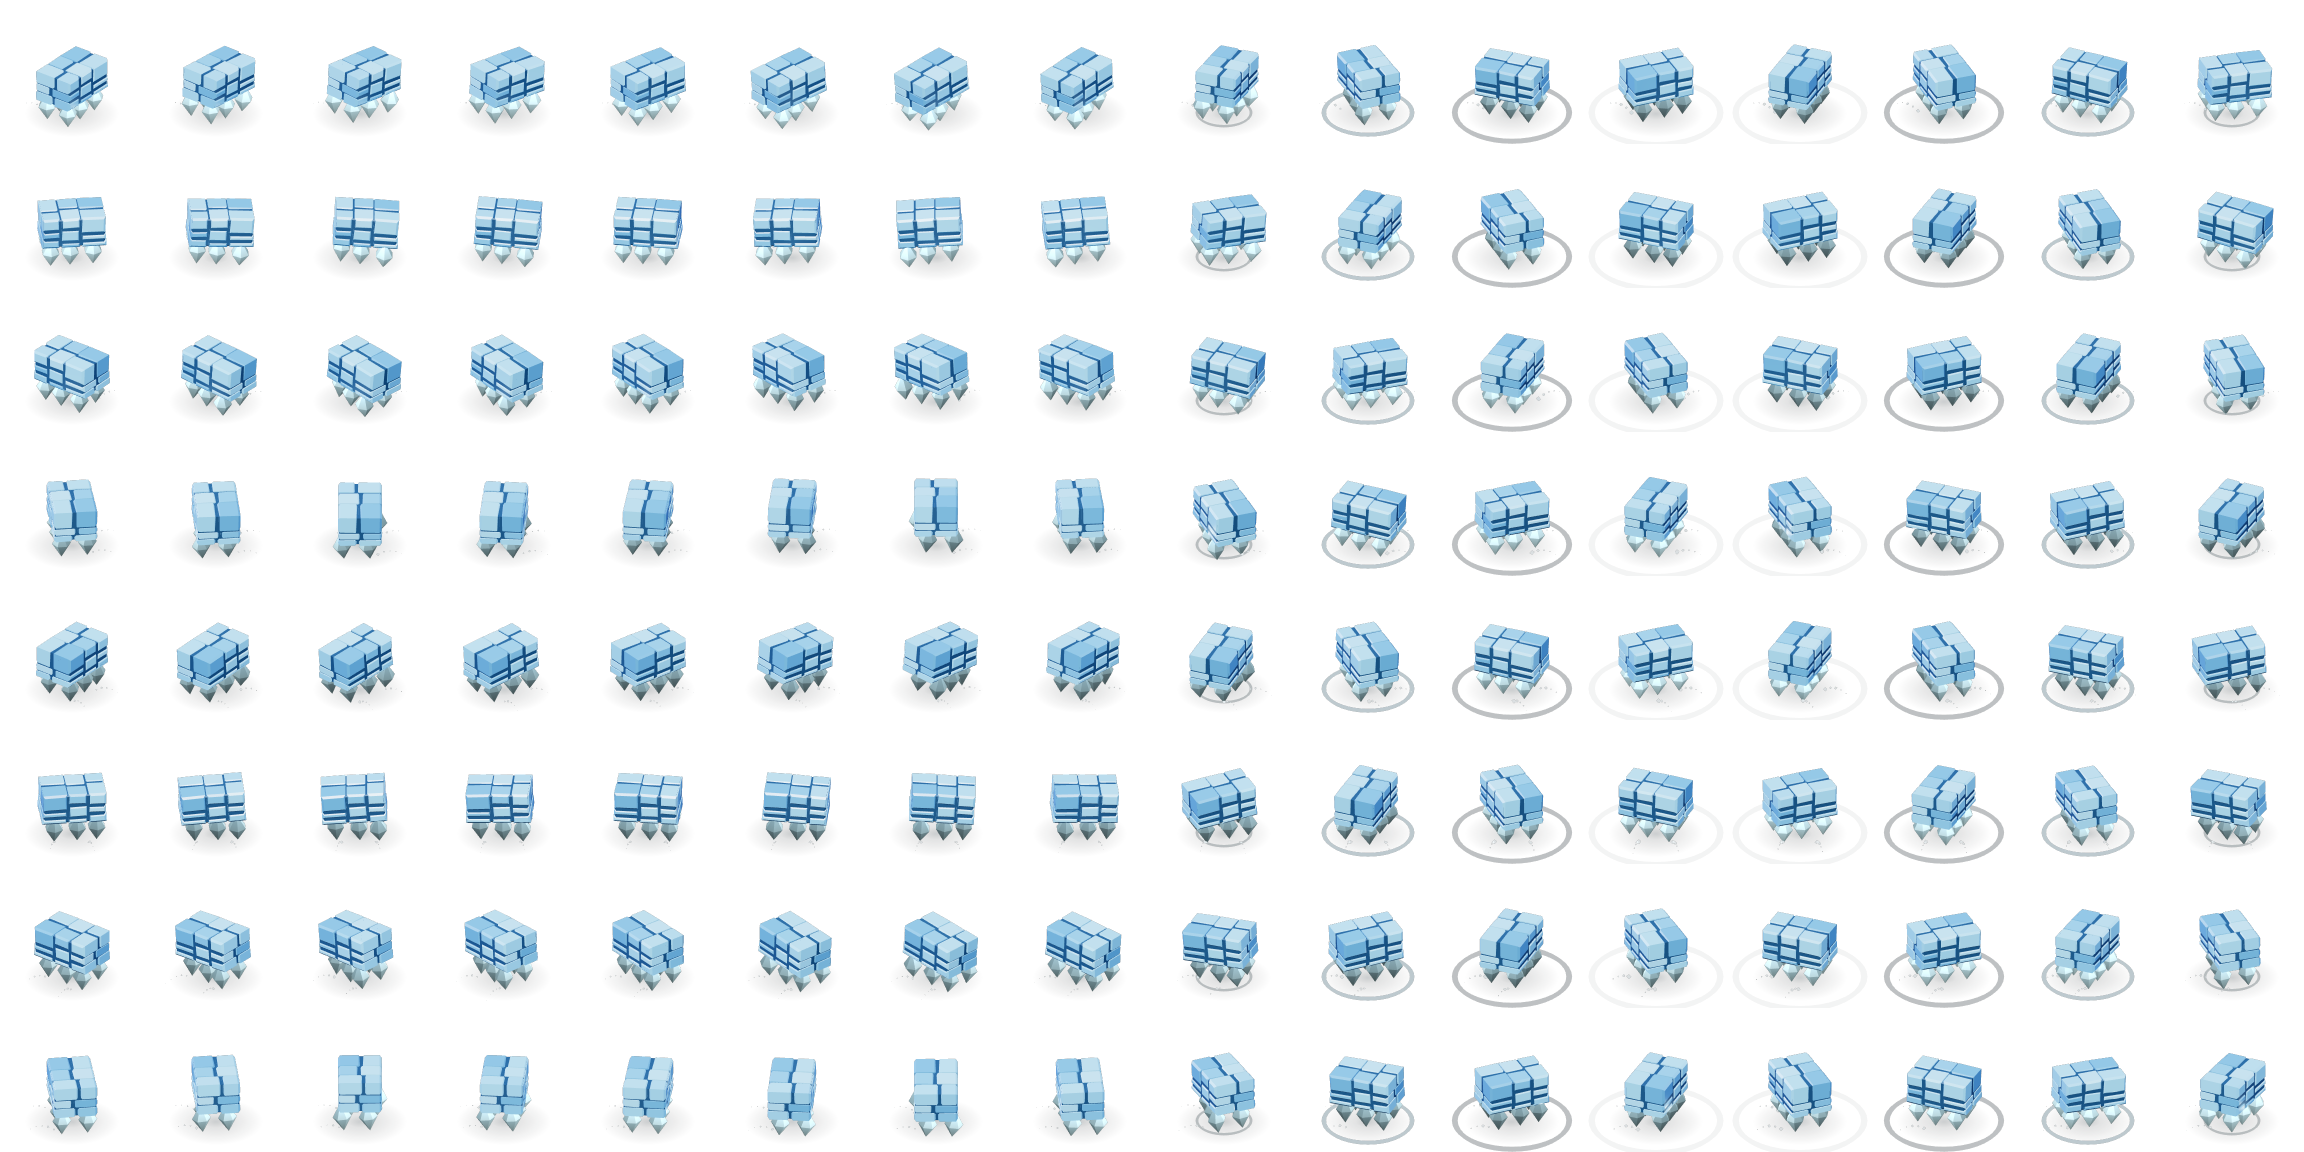
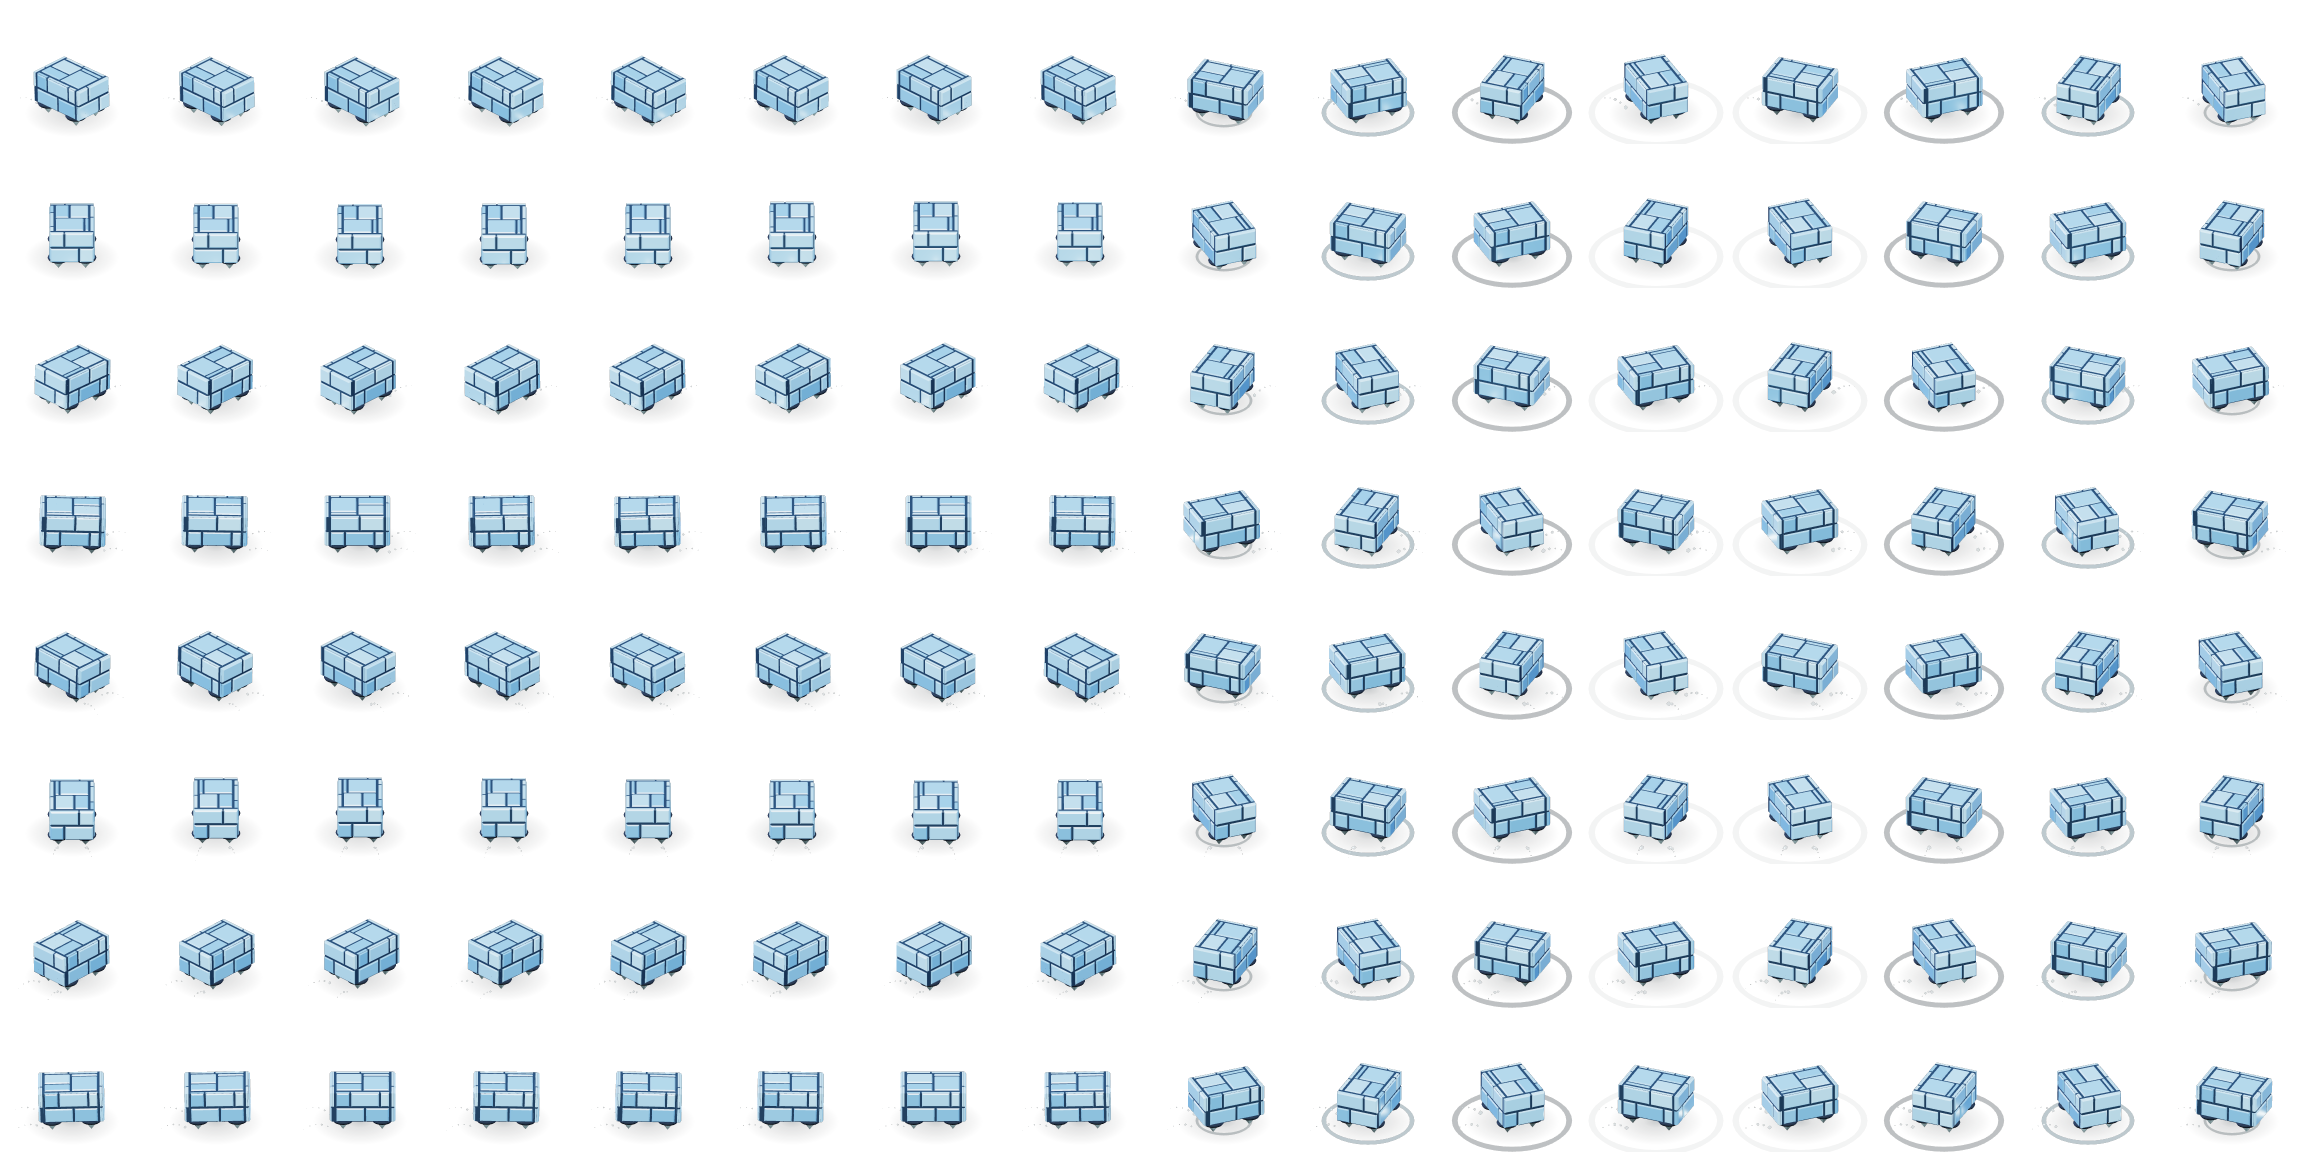
The Igloo Skater is the brick train cart now (No. 857, approved)
ASKED (reviewing it): "Only 4 legs and it should look like fitted bricks
on the body and the diamonds are nested under the body", "Bigger bricks 2
layers", "when it moves like a train cart, so that the smaller side is
front facing", then "Perfect".

- img/evo/igloo is baked from No. 857: a long box of big fitted ice bricks
  (two staggered courses on each wall and on the top, dark mortar) on
  four diamonds nested in sockets under it, narrow end first; it glides
  along its length with a slight rock, and spins in its action.
- The first design (No. 852) stays in the design file, baked by bake.js as
  igloo_old for comparison.
- Tests: evolution, landing page, boot.

Build 2026-10-28e.

Claude-Session: https://claude.ai/code/session_0115DZYYhipQqSk6LHvQcEfz

diff --git a/game.html b/game.html
@@ -1573,12 +1573,12 @@ function _showError(msg) {
 // Script files that failed to download. A missing file raises no error of its
 // own — only the "Can't find variable" from whatever needed it — so the load
 // failure is caught here, on its way down (capture phase).
-// THE BUILD. Every script URL below carries ?v=2026-10-28d, so a new deploy
+// THE BUILD. Every script URL below carries ?v=2026-10-28e, so a new deploy
 // fetches a matching set: REPORTED, an iPad ran the new js/indexart.js against
 // an old cached js/config.js ("Attempted to assign to readonly property").
 // Change this, the ?v= on every script tag and BUILD_VERSION in js/config.js
 // together (tests/boot.js checks they agree).
-window.__PAGE_BUILD = "2026-10-28d";
+window.__PAGE_BUILD = "2026-10-28e";
 window.__bootFailed = [];
 window.addEventListener("error", function (e) {
     var t = e && e.target;
@@ -1614,71 +1614,71 @@ if (!CanvasRenderingContext2D.prototype.roundRect) {
 </script>
 
 <!-- Game scripts — load order matters (globals first, logic last) -->
-<script src="js/config.js?v=2026-10-28d"></script>
-<script src="js/icons.js?v=2026-10-28d"></script>
-<script src="js/uikit.js?v=2026-10-28d"></script>
-<script src="js/traits.js?v=2026-10-28d"></script>
-<script src="js/elements.js?v=2026-10-28d"></script>
-<script src="js/combat.js?v=2026-10-28d"></script>
-<script src="js/species.js?v=2026-10-28d"></script>
-<script src="js/levels.js?v=2026-10-28d"></script>
-<script src="js/status.js?v=2026-10-28d"></script>
-<script src="js/helpers.js?v=2026-10-28d"></script>
-<script src="js/predator.js?v=2026-10-28d"></script>
-<script src="js/abilities.js?v=2026-10-28d"></script>
-<script src="js/commands.js?v=2026-10-28d"></script>
-<script src="js/npc.js?v=2026-10-28d"></script>
-<script src="js/draw.js?v=2026-10-28d"></script>
-<script src="js/beetle3d.js?v=2026-10-28d"></script>
-<script src="js/bugs3d.js?v=2026-10-28d"></script>
-<script src="js/settings.js?v=2026-10-28d"></script>
-<script src="js/alarm.js?v=2026-10-28d"></script>
-<script src="js/drops.js?v=2026-10-28d"></script>
-<script src="js/clone.js?v=2026-10-28d"></script>
-<script src="js/bonds.js?v=2026-10-28d"></script>
-<script src="js/evolution.js?v=2026-10-28d"></script>
-<script src="js/hdsprites.js?v=2026-10-28d"></script>
-<script src="js/firebombs.js?v=2026-10-28d"></script>
-<script src="js/moves.js?v=2026-10-28d"></script>
-<script src="js/hudgems.js?v=2026-10-28d"></script>
-<script src="js/commandcenter.js?v=2026-10-28d"></script>
-<script src="js/unitinfo.js?v=2026-10-28d"></script>
-<script src="js/infodex.js?v=2026-10-28d"></script>
-<script src="js/classes.js?v=2026-10-28d"></script>
-<script src="js/playergear.js?v=2026-10-28d"></script>
-<script src="js/inventory.js?v=2026-10-28d"></script>
-<script src="js/weapons.js?v=2026-10-28d"></script>
-<script src="js/mutator.js?v=2026-10-28d"></script>
-<script src="js/specimen.js?v=2026-10-28d"></script>
-<script src="js/serum.js?v=2026-10-28d"></script>
-<script src="js/technomancer.js?v=2026-10-28d"></script>
-<script src="js/stations.js?v=2026-10-28d"></script>
-<script src="js/facilityportals.js?v=2026-10-28d"></script>
-<script src="js/tutorial.js?v=2026-10-28d"></script>
-<script src="js/facilitymap.js?v=2026-10-28d"></script>
-<script src="js/facilitygrow.js?v=2026-10-28d"></script>
-<script src="js/facility.js?v=2026-10-28d"></script>
-<script src="js/attract.js?v=2026-10-28d"></script>
-<script src="js/facilitysave.js?v=2026-10-28d"></script>
-<script src="js/facilityplay.js?v=2026-10-28d"></script>
-<script src="js/facilitydecor.js?v=2026-10-28d"></script>
-<script src="js/propatlas.js?v=2026-10-28d"></script>
-<script src="js/propsprites.js?v=2026-10-28d"></script>
-<script src="js/facilitystyle.js?v=2026-10-28d"></script>
-<script src="js/facilitystyleall.js?v=2026-10-28d"></script>
-<script src="js/facilitynet.js?v=2026-10-28d"></script>
-<script src="js/facilityspawn.js?v=2026-10-28d"></script>
-<script src="js/followerspots.js?v=2026-10-28d"></script>
-<script src="js/party.js?v=2026-10-28d"></script>
-<script src="js/squadfly.js?v=2026-10-28d"></script>
-<script src="js/facilitytutorial.js?v=2026-10-28d"></script>
-<script src="js/gunfire.js?v=2026-10-28d"></script>
-<script src="js/targeting.js?v=2026-10-28d"></script>
-<script src="js/toolbox.js?v=2026-10-28d"></script>
-<script src="js/mixtool.js?v=2026-10-28d"></script>
-<script src="js/radialmenu.js?v=2026-10-28d"></script>
-<script src="js/input.js?v=2026-10-28d"></script>
-<script src="js/game.js?v=2026-10-28d"></script>
+<script src="js/config.js?v=2026-10-28e"></script>
+<script src="js/icons.js?v=2026-10-28e"></script>
+<script src="js/uikit.js?v=2026-10-28e"></script>
+<script src="js/traits.js?v=2026-10-28e"></script>
+<script src="js/elements.js?v=2026-10-28e"></script>
+<script src="js/combat.js?v=2026-10-28e"></script>
+<script src="js/species.js?v=2026-10-28e"></script>
+<script src="js/levels.js?v=2026-10-28e"></script>
+<script src="js/status.js?v=2026-10-28e"></script>
+<script src="js/helpers.js?v=2026-10-28e"></script>
+<script src="js/predator.js?v=2026-10-28e"></script>
+<script src="js/abilities.js?v=2026-10-28e"></script>
+<script src="js/commands.js?v=2026-10-28e"></script>
+<script src="js/npc.js?v=2026-10-28e"></script>
+<script src="js/draw.js?v=2026-10-28e"></script>
+<script src="js/beetle3d.js?v=2026-10-28e"></script>
+<script src="js/bugs3d.js?v=2026-10-28e"></script>
+<script src="js/settings.js?v=2026-10-28e"></script>
+<script src="js/alarm.js?v=2026-10-28e"></script>
+<script src="js/drops.js?v=2026-10-28e"></script>
+<script src="js/clone.js?v=2026-10-28e"></script>
+<script src="js/bonds.js?v=2026-10-28e"></script>
+<script src="js/evolution.js?v=2026-10-28e"></script>
+<script src="js/hdsprites.js?v=2026-10-28e"></script>
+<script src="js/firebombs.js?v=2026-10-28e"></script>
+<script src="js/moves.js?v=2026-10-28e"></script>
+<script src="js/hudgems.js?v=2026-10-28e"></script>
+<script src="js/commandcenter.js?v=2026-10-28e"></script>
+<script src="js/unitinfo.js?v=2026-10-28e"></script>
+<script src="js/infodex.js?v=2026-10-28e"></script>
+<script src="js/classes.js?v=2026-10-28e"></script>
+<script src="js/playergear.js?v=2026-10-28e"></script>
+<script src="js/inventory.js?v=2026-10-28e"></script>
+<script src="js/weapons.js?v=2026-10-28e"></script>
+<script src="js/mutator.js?v=2026-10-28e"></script>
+<script src="js/specimen.js?v=2026-10-28e"></script>
+<script src="js/serum.js?v=2026-10-28e"></script>
+<script src="js/technomancer.js?v=2026-10-28e"></script>
+<script src="js/stations.js?v=2026-10-28e"></script>
+<script src="js/facilityportals.js?v=2026-10-28e"></script>
+<script src="js/tutorial.js?v=2026-10-28e"></script>
+<script src="js/facilitymap.js?v=2026-10-28e"></script>
+<script src="js/facilitygrow.js?v=2026-10-28e"></script>
+<script src="js/facility.js?v=2026-10-28e"></script>
+<script src="js/attract.js?v=2026-10-28e"></script>
+<script src="js/facilitysave.js?v=2026-10-28e"></script>
+<script src="js/facilityplay.js?v=2026-10-28e"></script>
+<script src="js/facilitydecor.js?v=2026-10-28e"></script>
+<script src="js/propatlas.js?v=2026-10-28e"></script>
+<script src="js/propsprites.js?v=2026-10-28e"></script>
+<script src="js/facilitystyle.js?v=2026-10-28e"></script>
+<script src="js/facilitystyleall.js?v=2026-10-28e"></script>
+<script src="js/facilitynet.js?v=2026-10-28e"></script>
+<script src="js/facilityspawn.js?v=2026-10-28e"></script>
+<script src="js/followerspots.js?v=2026-10-28e"></script>
+<script src="js/party.js?v=2026-10-28e"></script>
+<script src="js/squadfly.js?v=2026-10-28e"></script>
+<script src="js/facilitytutorial.js?v=2026-10-28e"></script>
+<script src="js/gunfire.js?v=2026-10-28e"></script>
+<script src="js/targeting.js?v=2026-10-28e"></script>
+<script src="js/toolbox.js?v=2026-10-28e"></script>
+<script src="js/mixtool.js?v=2026-10-28e"></script>
+<script src="js/radialmenu.js?v=2026-10-28e"></script>
+<script src="js/input.js?v=2026-10-28e"></script>
+<script src="js/game.js?v=2026-10-28e"></script>
 <script>
 // ── BOOT CHECK ────────────────────────────────────────────
 // Every file above must have arrived and run before init.js starts the game.
@@ -1733,7 +1733,7 @@ if (!CanvasRenderingContext2D.prototype.roundRect) {
     document.body.appendChild(d);
 })();
 </script>
-<script src="js/init.js?v=2026-10-28d"></script>
+<script src="js/init.js?v=2026-10-28e"></script>
 
 </body>
 </html>

diff --git a/js/evolution.js b/js/evolution.js
@@ -207,10 +207,11 @@ const EVOLUTIONS = {
     // a yellow underglow, square wings and two launcher prongs, over a six-legged shuttle; its action frames lift the shell off. It glows, so the sheet carries its own light.
     hovershell:{ id: "hovershell", name: "HOVER SHELL", element: "electric", role: "camper", sheet: "img/evo/hovershell.png",
               cell: 144, anchor: [72, 114.2], core: [72, 93.1], noGlow: true, color: "#ffee33" },
-    // The ICE TECHNICIAN, design No. 852 (the user's pencil sketch: "a rectangular igloo looking dude that has diamonds for legs, who skates around"):
-    // a squat box of cut ice blocks on diamond legs. It glides, so the sheet carries its own light.
+    // The ICE TECHNICIAN, design No. 857 (the user's pencil sketch: "a rectangular igloo looking dude that has diamonds for legs, who skates around", then the review:
+    // "only 4 legs", "fitted bricks on the body", "the diamonds are nested under the body", "bigger bricks 2 layers", "moves like a train cart, so that the smaller side is
+    // front facing"): a long box of big fitted ice bricks, narrow end first, on four diamonds nested in sockets under it. It glides, so the sheet carries its own light.
     igloo:  { id: "igloo",  name: "IGLOO SKATER", element: "ice", role: "camper", sheet: "img/evo/igloo.png",
-              cell: 144, anchor: [72, 114.2], core: [72, 78.7], noGlow: true, color: "#9fe8ff" },
+              cell: 144, anchor: [72, 114.2], core: [72, 89], noGlow: true, color: "#9fe8ff" },
     // The CORE BRAWLER, design No. 867 (the user's "JELLY RAM" sheet: "a floating brawler that uses its horned shell to ram targets", then the user's review: "move with
     // flicks from all of its tentacles like the jellyfish from SpongeBob", "a little bit bigger", the wavy strings "but fewer and thicker", "fatter tentacles"): a clear dome
     // with a big diamond in it under a black helmet band, a horn out of either side lit along its top, a bell of jelly with seven fat wavy tentacles; it swims, every tentacle

diff --git a/design/evolutions/bake.js b/design/evolutions/bake.js
@@ -44,7 +44,8 @@ const JOBS = [
   { id: 'thermite_black', form: 854, color: '#ff3300', idleAct: 0, action: [0, 1.0], pulse: true, glowNormal: true },
   // No. 855 is the game's Thermite Burrower now (above); thermite_bear bakes the same, for comparison.
   { id: 'thermite_bear', form: 855, color: '#ff3300', idleAct: 0, action: [0, 1.0], pulse: true, glowNormal: true },
-  { id: 'igloo', form: 852, color: '#7fd6ff', idleAct: 0, action: [0, 1.0], pulse: true, glowNormal: true },
+  { id: 'igloo', form: 857, color: '#7fd6ff', idleAct: 0, action: [0, 1.0], pulse: true, glowNormal: true },   // (No. 857, approved on the user's review: fitted bricks, four nested diamonds, runs like a train cart)
+  { id: 'igloo_old', form: 852, color: '#7fd6ff', idleAct: 0, action: [0, 1.0], pulse: true, glowNormal: true },   // (the first Igloo Skater, before the review)
   // No. 856, the Igloo Skater of fitted bricks on four nested diamonds (the user's ask on 852): a candidate until approved.
   { id: 'igloo_bricks', form: 856, color: '#7fd6ff', idleAct: 0, action: [0, 1.0], pulse: true, glowNormal: true },
   // No. 857, the same turned to run like a train cart, its narrow end first (the user's ask on 856): a candidate until approved.

diff --git a/js/config.js b/js/config.js
@@ -6,7 +6,7 @@
 
 // The build this file belongs to — the same as window.__PAGE_BUILD and the
 // ?v= on every script tag in game.html (the boot check compares them).
-const BUILD_VERSION = "2026-10-28d";
+const BUILD_VERSION = "2026-10-28e";
 
 // ── GLOBAL ERROR DISPLAY ──────────────────────────────────
 // Lives in game.html (_showError), before any file loads. This file used to
